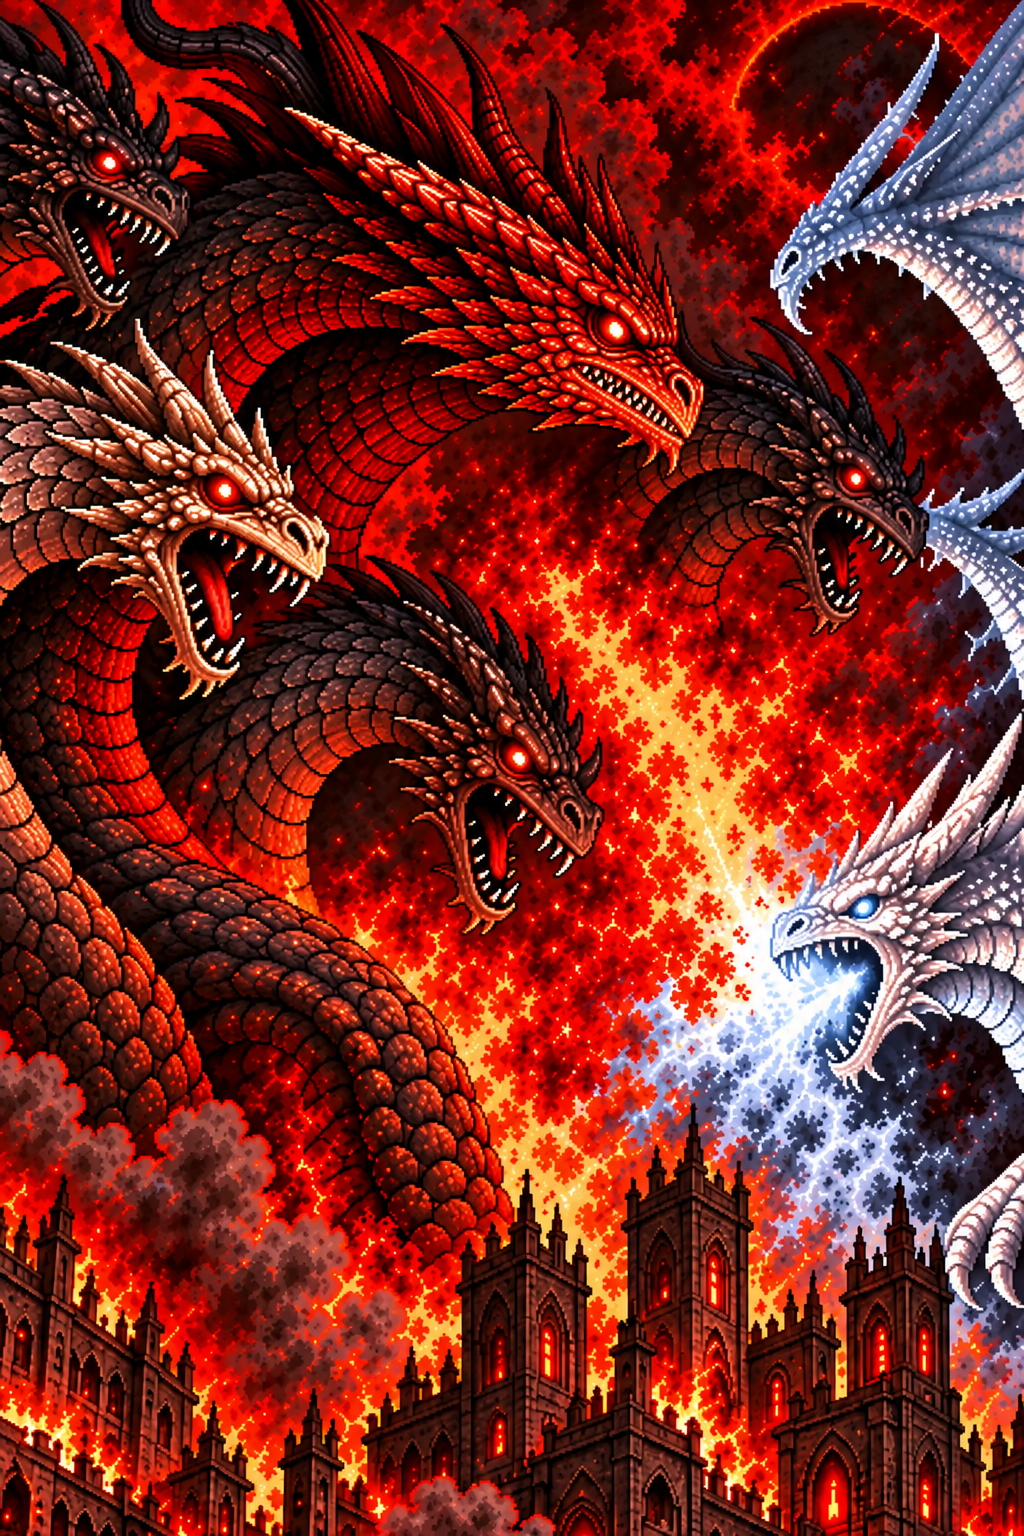
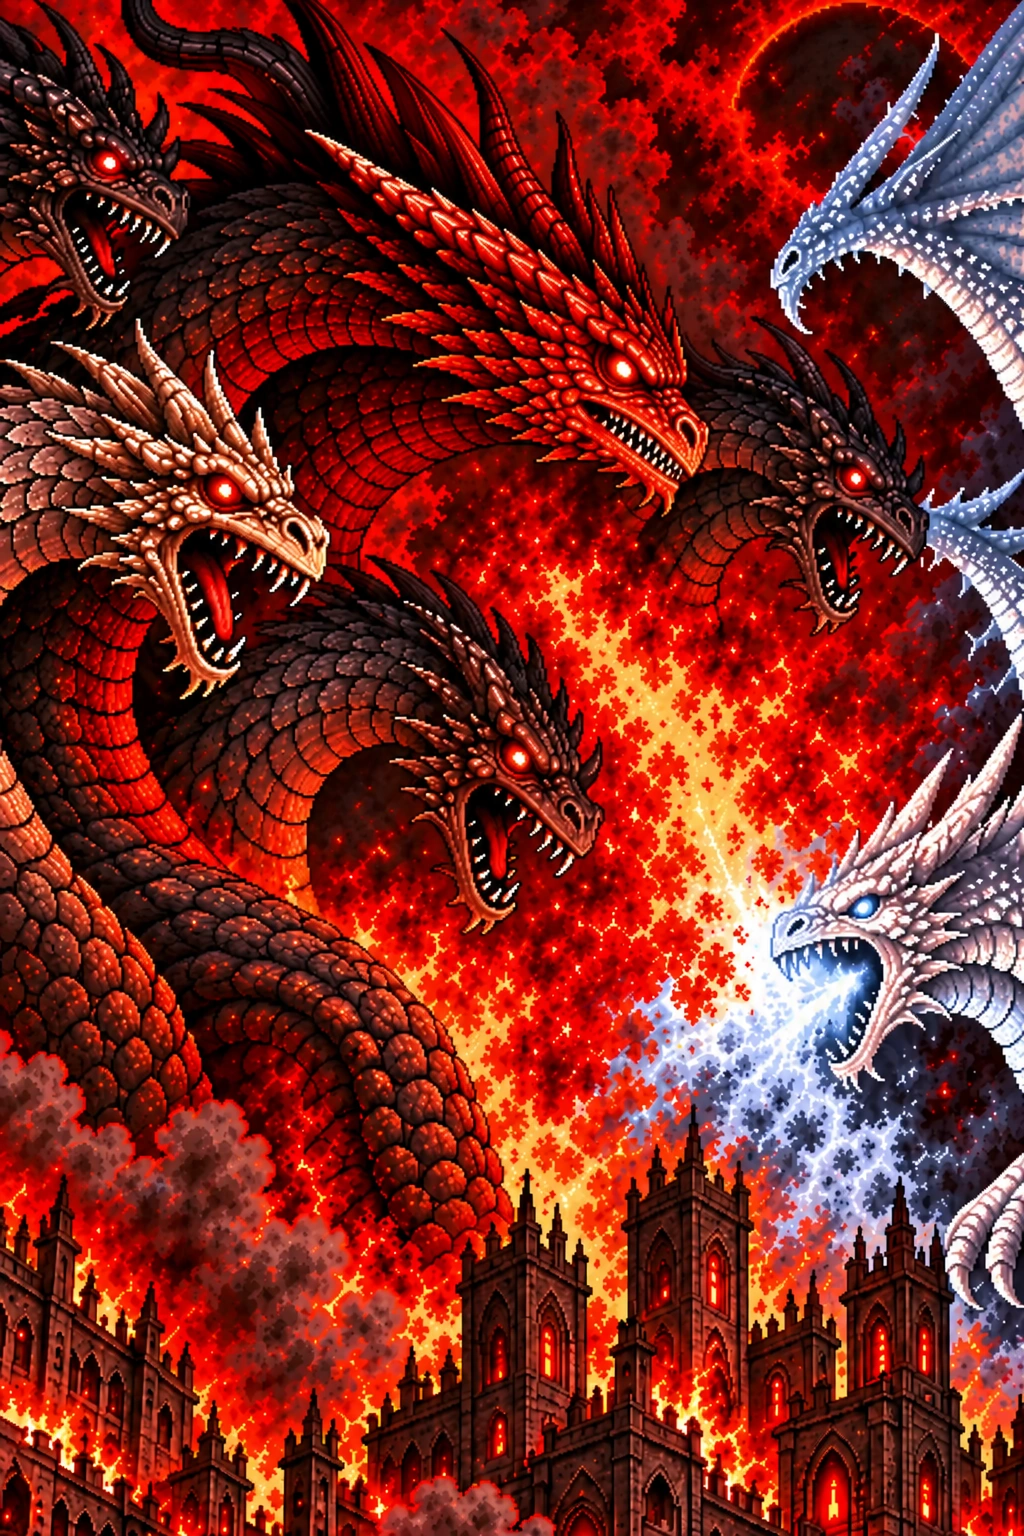
Lower frame three dragon head and slightly open its mouth

diff --git a/sw.js b/sw.js
@@ -1,7 +1,7 @@
 // Content-addressed resources survive deployments. HTML stays network-first;
 // tiles retain their independent offline cache. Keep two shell generations so
 // old tabs can still request their exact script URLs after a worker update.
-const SHELL_VERSION = 'shell-7ba2734d';
+const SHELL_VERSION = 'shell-445d7369';
 
 const RESOURCE_CACHE = 'terracart-resources-v1';
 const RESOURCE_MANIFEST = './__terracart_resource_manifest__';
@@ -1157,7 +1157,7 @@ const ASSET_HASHES = {
   "assets/art/story_nightmare_close.webp": "6d71eeda",
   "assets/art/story_nightmare_close_frame2.webp": "033cafdd",
   "assets/art/story_nightmare_frame2.webp": "9af40dee",
-  "assets/art/story_nightmare_frame3.webp": "cfe5d8e7",
+  "assets/art/story_nightmare_frame3.webp": "9d826d4e",
   "assets/art/story_nightmare_frame4.webp": "bb10c103",
   "assets/art/story_wake.webp": "9d01bdd0",
   "assets/art/story_wake_frame2.webp": "b55f492f",

diff --git a/docs/design/presentation.md b/docs/design/presentation.md
@@ -465,7 +465,8 @@ pixels and decorative details do not define additional tap cells.
   Every outgoing and incoming image shares the same camera, preserving those
   scale offsets throughout each fade. Painted head motion and perspective
   still vary locally; the offsets match overall head scale, not every contour.
-  Tiamat stops breathing fire while staying side-facing in the third painting,
+  Tiamat stops breathing fire with her mouth slightly open and head lowered
+  a little, while staying side-facing in the third painting,
   then turns toward the viewer for her closed-mouth stare in the fourth;
   her head turns in place rather than growing independently. Peripheral
   dragons keep shifting as flames flicker and smoke curls.
